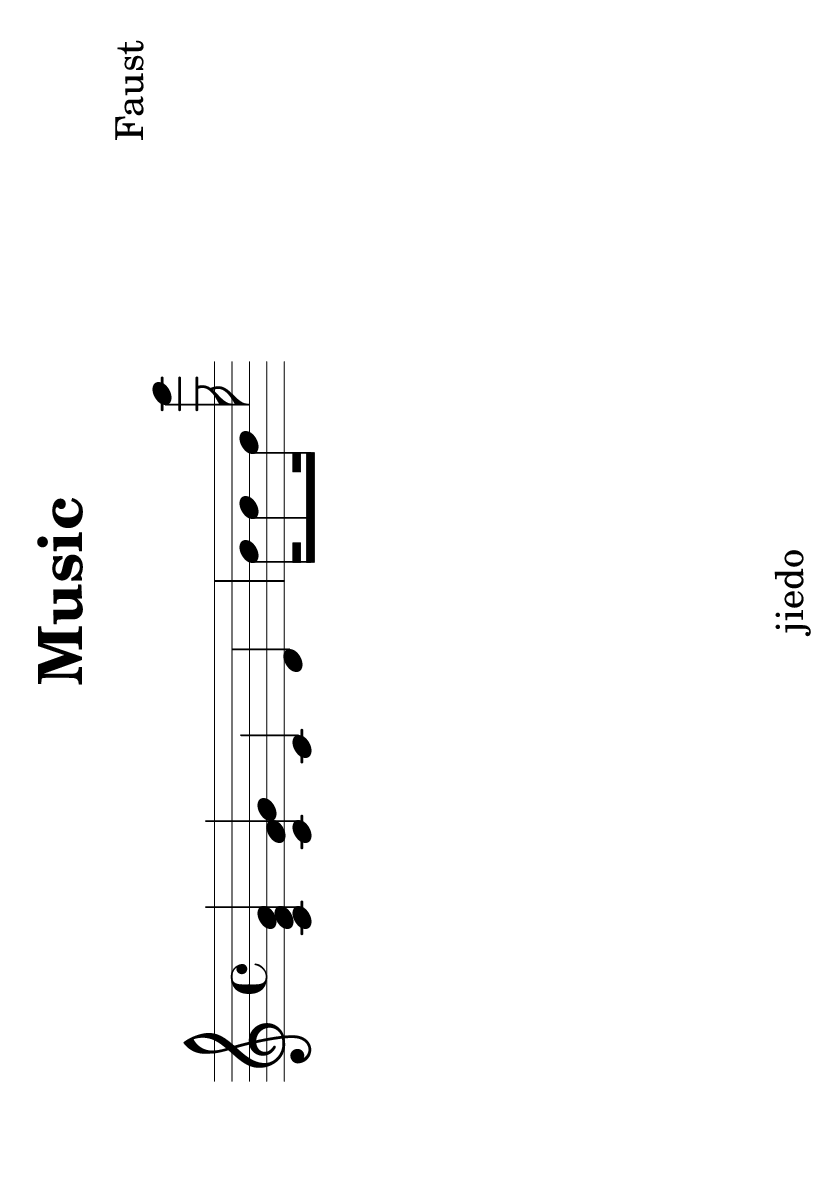
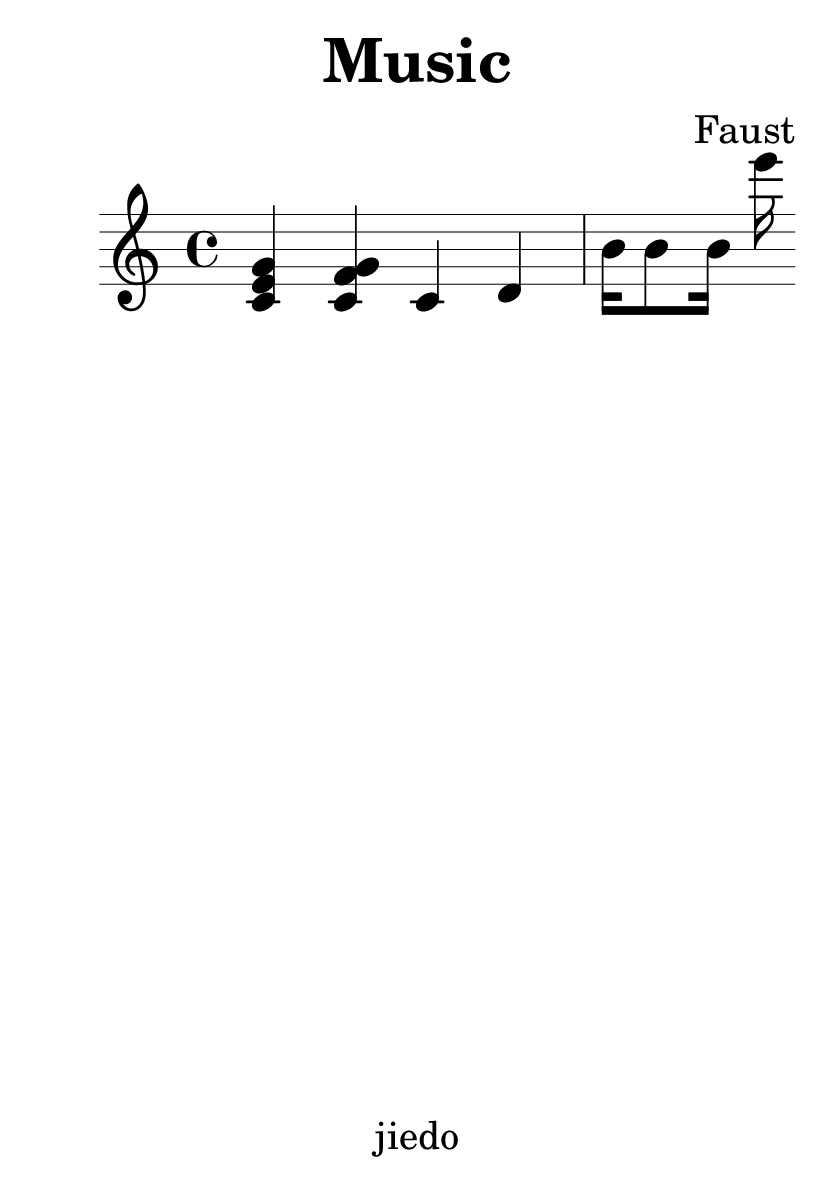
disable landscape

diff --git a/play_piano.py b/play_piano.py
@@ -168,7 +168,8 @@ def main():
     thread_track.start()
 
     staff_img_png = pygame.image.load("data.png").convert_alpha()
-    staff_img = pygame.transform.rotate(staff_img_png, 270)
+    # staff_img = pygame.transform.rotate(staff_img_png, 270)
+    staff_img = staff_img_png
     staff_img_rect = staff_img.get_rect()
 
     piano.screen.blit(staff_img, staff_img_rect, (0, 0, WINSIZE[0], WINSIZE[1] * 0.618))
